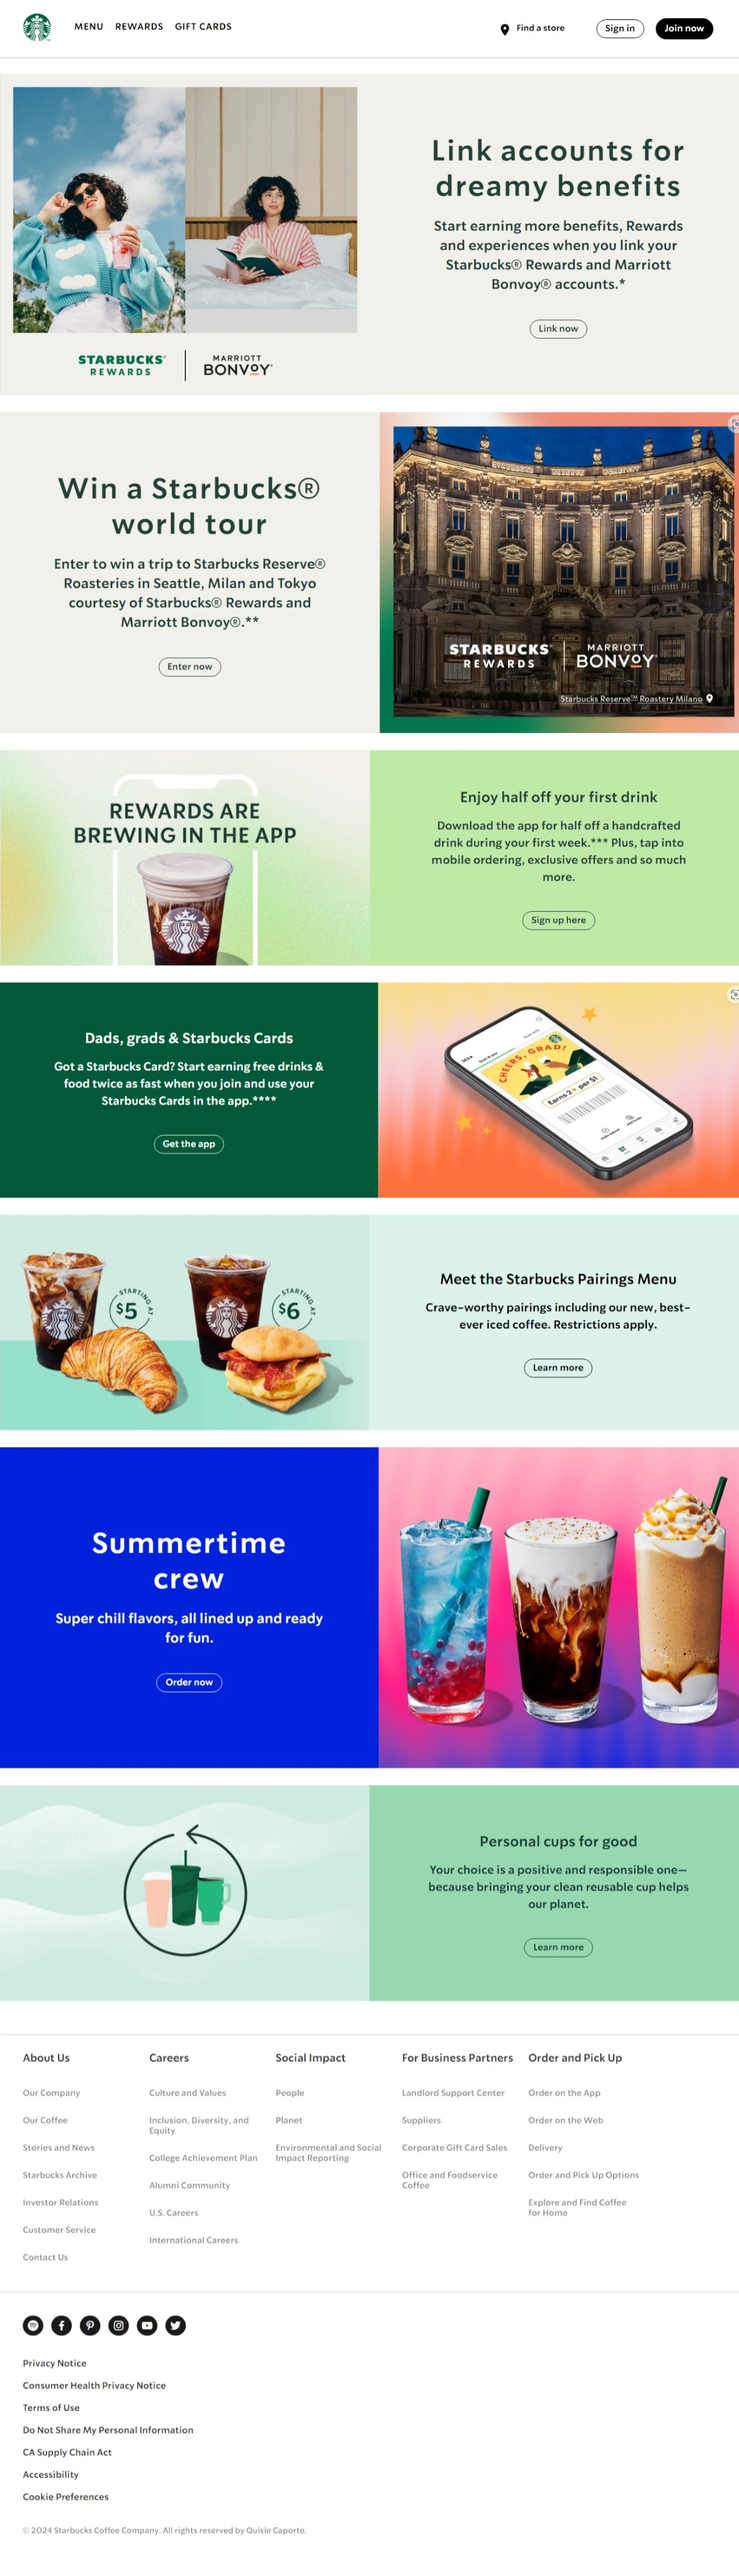
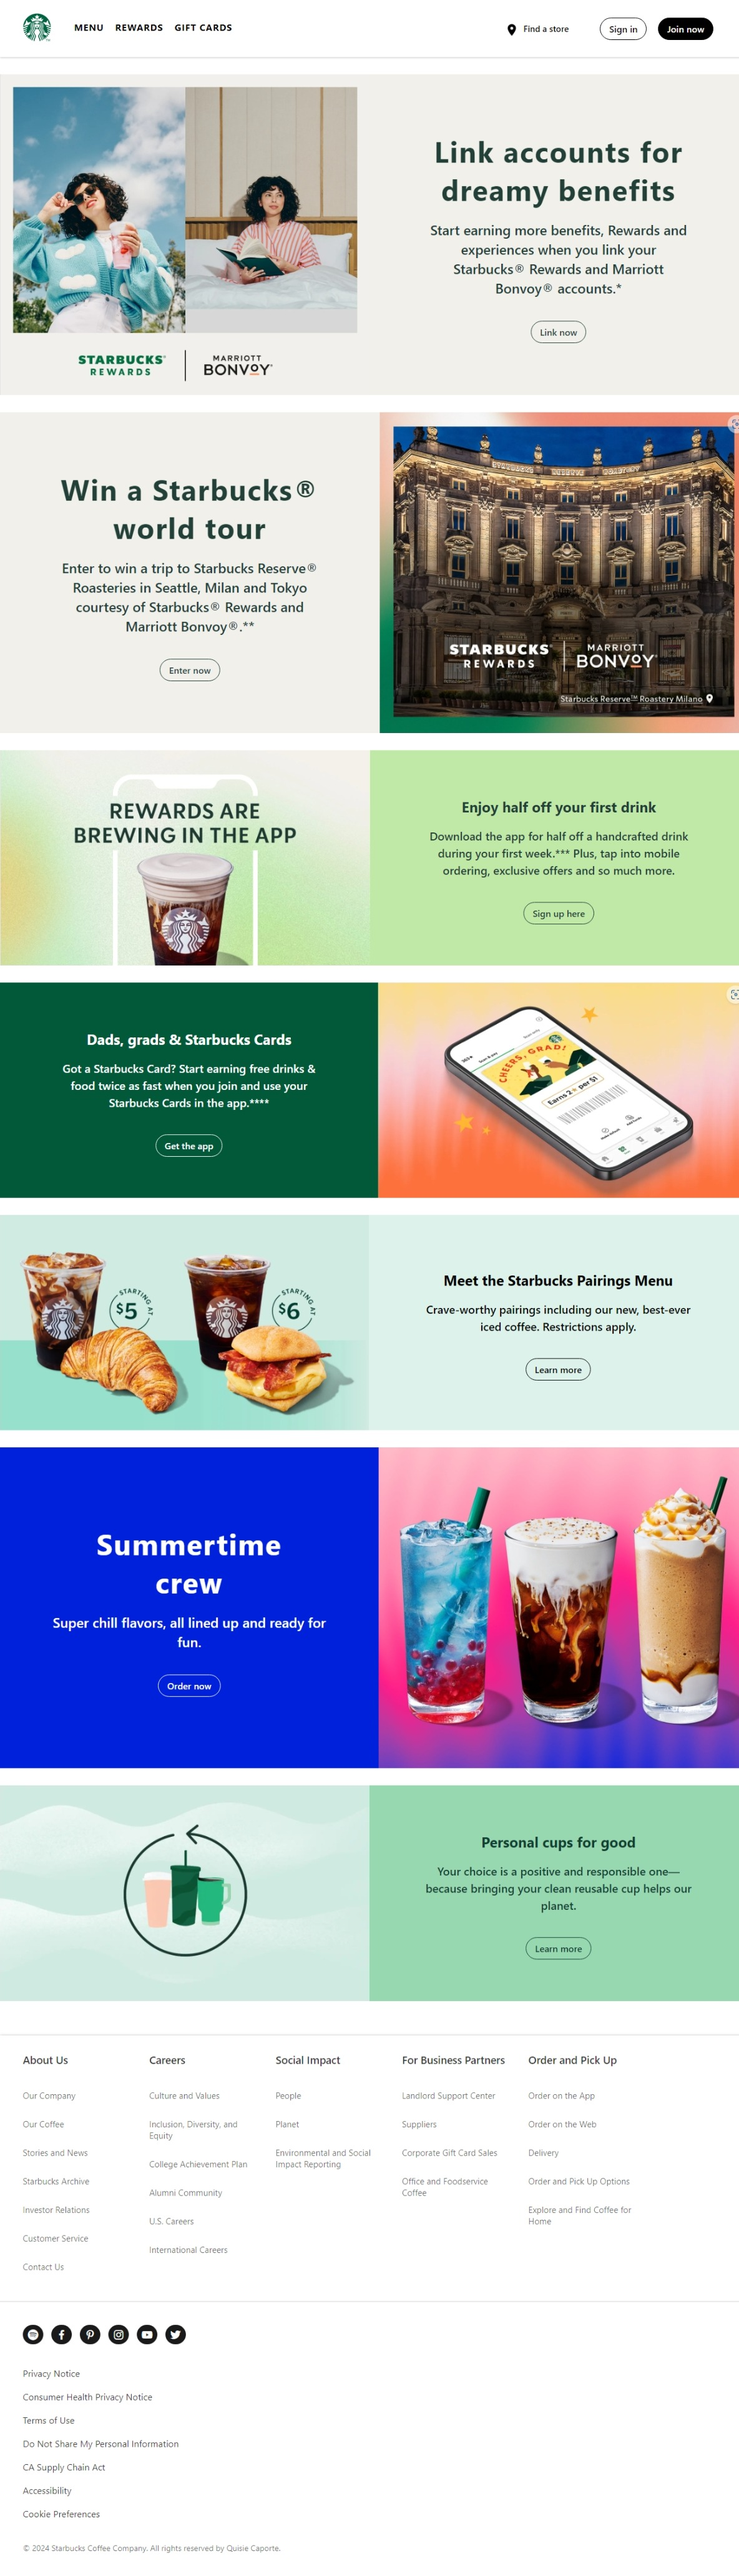
landing page changes

diff --git a/pages/menu.html b/pages/menu.html
@@ -3,7 +3,8 @@
   <head>
     <meta charset="UTF-8" />
     <meta http-equiv="X-AU-Compatible" content="IE=edge" />
-    <link rel="stylesheet" href="style.css" />
+    <link rel="stylesheet" href="../style.css" />
+    <link rel="stylesheet" href="../styles/menu.css" />
     <link
       href="https://db.onlinewebfonts.com/c/d7e8a95865396cddca89b00080d2cba6?family=SoDo+Sans+SemiBold"
       rel="stylesheet"
@@ -18,7 +19,7 @@
     />
     <link rel="shortcut icon" href="/images/logo1.png" type="image/x-icon" />
     <meta name="viewport" content="width=device-width, initial-scale=1.0" />
-    <title>Starbucks Coffee Company</title>
+    <title>Menu: Starbucks Coffee Company</title>
   </head>
 
   <body>
@@ -88,108 +89,16 @@
       </div>
     </header>
 
-    <div class="banner">
-      <div class="banner-item item1">
-        <img src="/images/home1.png" alt="home1" />
-
-        <div class="banner-text">
-          <h1>Link accounts for dreamy benefits</h1>
-          <p>
-            Start earning more benefits, Rewards and experiences when you link
-            your Starbucks® Rewards and Marriott Bonvoy® accounts.*
-          </p>
-          <a href="#" class="btn1 bigger">Link now</a>
-        </div>
+    <div class="menu">
+      <div class="menu-nav">
+        <a href="#">Menu</a>
+        <a href="#">Featured</a>
+        <a href="#">Previous</a>
+        <a href="#">Favorites</a>
       </div>
-    </div>
 
-    <div class="banner">
-      <div class="banner-item item2">
-        <img src="/images/home2.png" alt="home1" />
-
-        <div class="banner-text">
-          <h1>Win a Starbucks® world tour</h1>
-          <p>
-            Enter to win a trip to Starbucks Reserve® Roasteries in Seattle,
-            Milan and Tokyo courtesy of Starbucks® Rewards and Marriott
-            Bonvoy®.**
-          </p>
-          <a href="#" class="btn1 bigger">Enter now</a>
-        </div>
-      </div>
-    </div>
-
-    <div class="banner">
-      <div class="banner-item item3">
-        <img src="/images/home3.png" alt="home1" />
-
-        <div class="banner-text">
-          <h1 class="h1-smaller">Enjoy half off your first drink</h1>
-          <p class="p-smaller">
-            Download the app for half off a handcrafted drink during your first
-            week.*** Plus, tap into mobile ordering, exclusive offers and so
-            much more.
-          </p>
-          <a href="#" class="btn1 bigger">Sign up here</a>
-        </div>
-      </div>
-    </div>
-
-    <div class="banner">
-      <div class="banner-item item4">
-        <img src="/images/home4.png" alt="home1" />
-
-        <div class="banner-text">
-          <h1 class="h1-smaller">Dads, grads & Starbucks Cards</h1>
-          <p class="p-smaller">
-            Got a Starbucks Card? Start earning free drinks & food twice as fast
-            when you join and use your Starbucks Cards in the app.****
-          </p>
-          <a href="#" class="btn3 bigger">Get the app</a>
-        </div>
-      </div>
-    </div>
-
-    <div class="banner">
-      <div class="banner-item item5">
-        <img src="/images/home5.png" alt="home1" />
-
-        <div class="banner-text">
-          <h1 class="h1-smaller">Meet the Starbucks Pairings Menu</h1>
-          <p class="p-smaller">
-            Crave-worthy pairings including our new, best-ever iced coffee.
-            Restrictions apply.
-          </p>
-          <a href="#" class="btn1 bigger">Learn more</a>
-        </div>
-      </div>
-    </div>
-
-    <div class="banner">
-      <div class="banner-item item6">
-        <img src="/images/home6.png" alt="home1" />
-
-        <div class="banner-text">
-          <h1>Summertime crew</h1>
-          <p>Super chill flavors, all lined up and ready for fun.</p>
-          <a href="#" class="btn3 bigger">Order now</a>
-        </div>
-      </div>
-    </div>
-
-    <div class="banner">
-      <div class="banner-item item7">
-        <img src="/images/home7.png" alt="home1" />
-
-        <div class="banner-text">
-          <h1 class="h1-smaller">Personal cups for good</h1>
-          <p class="p-smaller">
-            Your choice is a positive and responsible one—because bringing your
-            clean reusable cup helps our planet.
-          </p>
-          <a href="#" class="btn1 bigger">Learn more</a>
-        </div>
-      </div>
+      <div class="menu-name"></div>
+      <div class="menu-items"></div>
     </div>
 
     <footer>
@@ -407,6 +316,6 @@
       </div>
     </footer>
 
-    <script src="/script.js"></script>
+    <script src="../script.js"></script>
   </body>
 </html>

diff --git a/style.css b/style.css
@@ -9,10 +9,10 @@
 body {
   max-width: 1400px;
   overflow-x: hidden;
-  /* font-family: system-ui, -apple-system, BlinkMacSystemFont, "Segoe UI", Roboto,
-    Oxygen, Ubuntu, Cantarell, "Open Sans", "Helvetica Neue", sans-serif; */
-  font-family: "SoDo Sans SemiBold", Helvetica Neue, Helvetica, Arial,
-    sans-serif;
+  font-family: system-ui, -apple-system, BlinkMacSystemFont, "Segoe UI", Roboto,
+    Oxygen, Ubuntu, Cantarell, "Open Sans", "Helvetica Neue", sans-serif;
+  /* font-family: "SoDo Sans SemiBold", Helvetica Neue, Helvetica, Arial,
+    sans-serif; */
 }
 
 #bar,
@@ -26,7 +26,7 @@ header {
   height: 100px;
   padding: 0 40px;
   position: relative;
-  box-shadow: rgba(128, 128, 128, 0.43) 0 1px 3px;
+  box-shadow: rgba(128, 128, 128, 0.45) 0 1px 3px;
   z-index: 100;
 }
 
@@ -284,7 +284,7 @@ footer {
 
 .footer-list li {
   padding: 15px 0;
-  color: rgba(0, 0, 0, 0.48);
+  color: rgba(0, 0, 0, 0.6);
   font-size: 15px;
   /* font-weight: 300; */
 }
@@ -346,7 +346,7 @@ footer {
 
 .footer-opt2 .copyright {
   font-size: 14px;
-  color: rgba(0, 0, 0, 0.48);
+  color: rgba(0, 0, 0, 0.6);
 }
 
 /* /////////////////////////////////// MEDIA QUERIES */

diff --git a/styles/menu.css b/styles/menu.css
@@ -1,0 +1,48 @@
+.menu a {
+  /* border-bottom: 1px solid #000; */
+}
+
+.menu {
+  display: grid;
+  grid-template-columns: 300px auto;
+  grid-template-areas:
+    "menuNav menuNav menuNav"
+    "menuName menuItems menuItems";
+}
+
+.menu-nav {
+  background: #f9f9f9;
+  grid-area: menuNav;
+  height: 60px;
+  z-index: 99;
+  padding: 0 130px;
+  border-bottom: 1px solid rgba(128, 128, 128, 0.3);
+  position: absolute;
+  right: 0;
+  left: 0;
+}
+
+.menu-nav a:first-child {
+  text-decoration: underline;
+  text-underline-offset: 8px;
+}
+
+.menu-nav a {
+  line-height: 60px;
+  color: rgba(0, 0, 0, 0.9);
+  font-size: 14px;
+  margin-right: 30px;
+}
+
+.sticky {
+  position: fixed;
+  top: 0;
+}
+
+.menu-name {
+  grid-area: menuName;
+}
+
+.menu-items {
+  grid-area: menuItems;
+}

diff --git a/script.js b/script.js
@@ -72,3 +72,15 @@ document.addEventListener("DOMContentLoaded", function () {
     });
   });
 });
+
+document.addEventListener("DOMContentLoaded", function () {
+  const menuNav = document.querySelector(".menu-nav");
+
+  window.addEventListener("scroll", () => {
+    if (window.pageYOffset > menuNav.offsetTop) {
+      menuNav.classList.add("sticky");
+    } else {
+      menuNav.classList.remove("sticky");
+    }
+  });
+});
